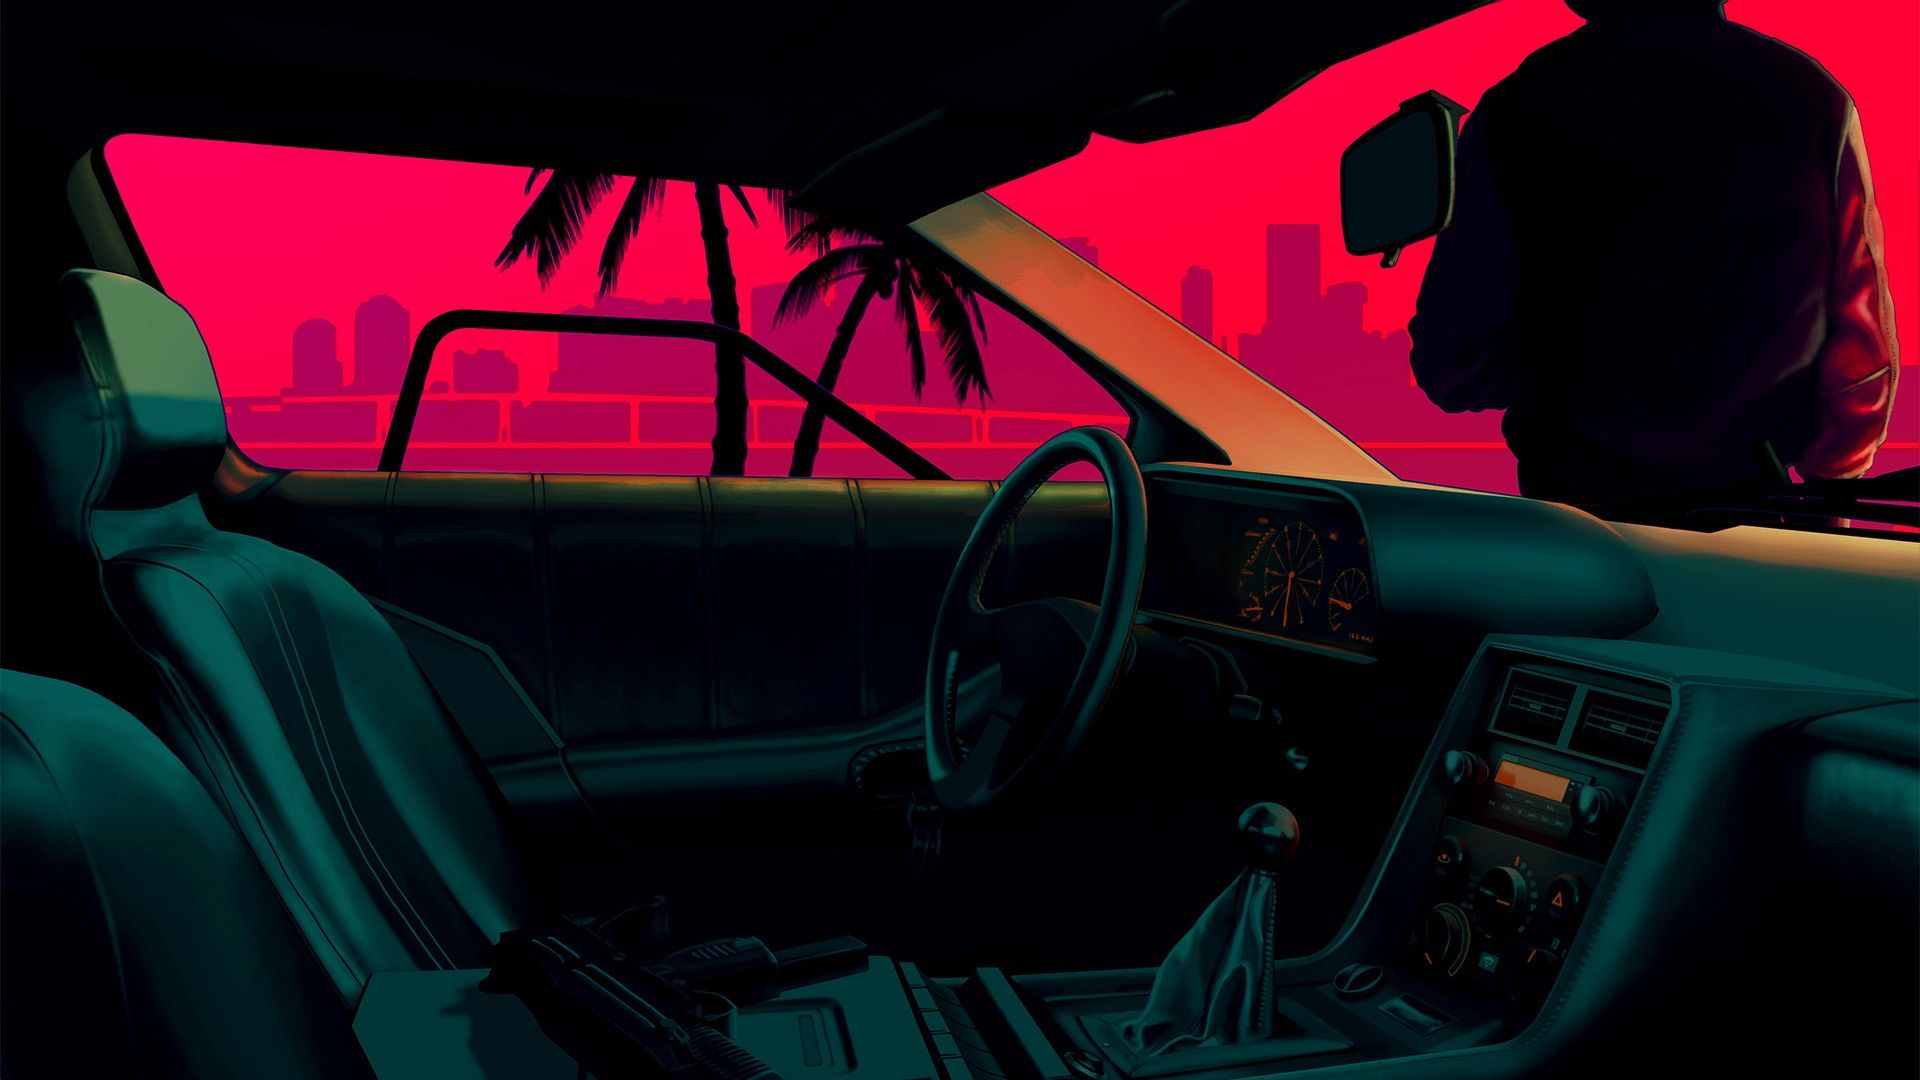
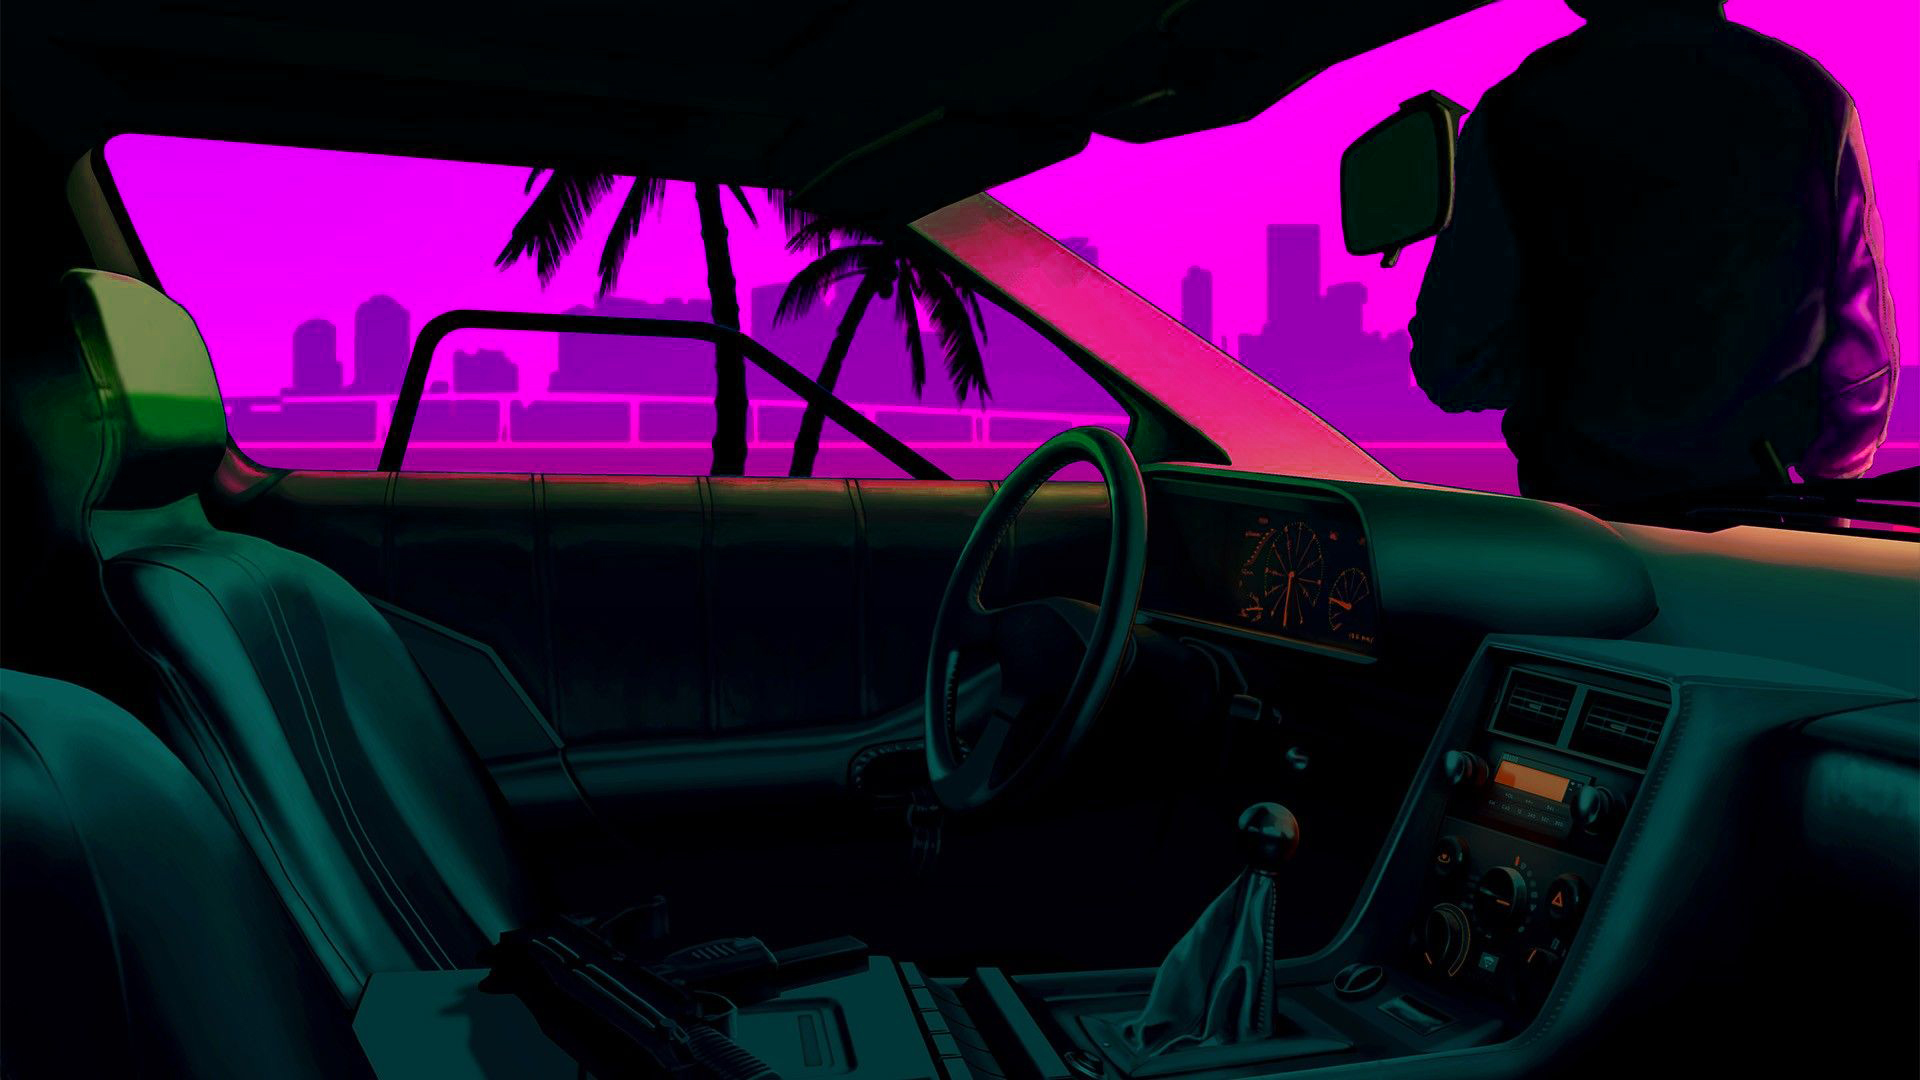
Updated colors with gradients.  PS'd DriverBG to purple.

Changed region(s): [[0.0312, 0.0, 0.8438, 0.4583], [0.875, 0.0, 1.0, 0.5194]]

diff --git a/src/index.css b/src/index.css
@@ -50,7 +50,8 @@ body {
     background-color: var(--MID_RED);
 }
 .home-background {
-  background-color: var(--LIGHT_RED);
+  /*background-color: var(--LIGHT_RED);*/
+  background: linear-gradient(to bottom, var(--MID_RED) 0%, var(--LIGHT_RED) 100%);
 }
 .customer-menu {
   background-color: var(--ORANGE);
@@ -59,7 +60,8 @@ body {
   background-color: var(--MID_ORANGE);
 }
 .customer-background {
-  background-color: var(--LIGHT_ORANGE);
+  /*background-color: var(--LIGHT_ORANGE);*/
+  background: linear-gradient(to bottom, var(--MID_ORANGE) 0%, var(--LIGHT_ORANGE) 100%);
 }
 
 .seller-menu {
@@ -69,7 +71,9 @@ body {
   background-color: var(--BLUE);
 }
 .seller-background {
-  background-color: var(--LIGHT_BLUE);
+  /*background-color: var(--LIGHT_BLUE);*/
+  background: linear-gradient(to bottom, var(--BLUE) 0%, var(--LIGHT_BLUE) 100%);
+
 }
 
 .driver-menu {
@@ -79,5 +83,6 @@ body {
   background-color: var(--PURPLE);
 }
 .driver-background {
-  background-color: var(--LIGHT_PURPLE);
+  /*background-color: var(--LIGHT_PURPLE);*/
+  background: linear-gradient(to bottom, var(--PURPLE) 0%, var(--LIGHT_PURPLE) 100%);
 }

diff --git a/src/views/Loading.js b/src/views/Loading.js
@@ -16,28 +16,28 @@ class Loading extends Component {
   viewSwitch(view){
     switch(view){
       case VIEW.login:
-        return " login-menu";
+        return " login-background";
       case VIEW.home:
-        return " home-accent";
+        return " home-background";
       case VIEW.cardList:
         return this.backgroundSwitch();
       case VIEW.order:
         return this.backgroundSwitch();
       default:
-        return " home-menu";
+        return " home-background";
     }
   }
 
   backgroundSwitch() {
     switch(global.viewPersona) {
       case PERSONA.seller.name:
-        return "seller-menu";
+        return "seller-background";
       case PERSONA.customer.name:
-        return "customer-menu";
+        return "customer-background";
       case PERSONA.driver.name:
-        return "driver-menu";
+        return "driver-background";
       default:
-        return "home-accent";
+        return "home-background";
     }
   }
 
